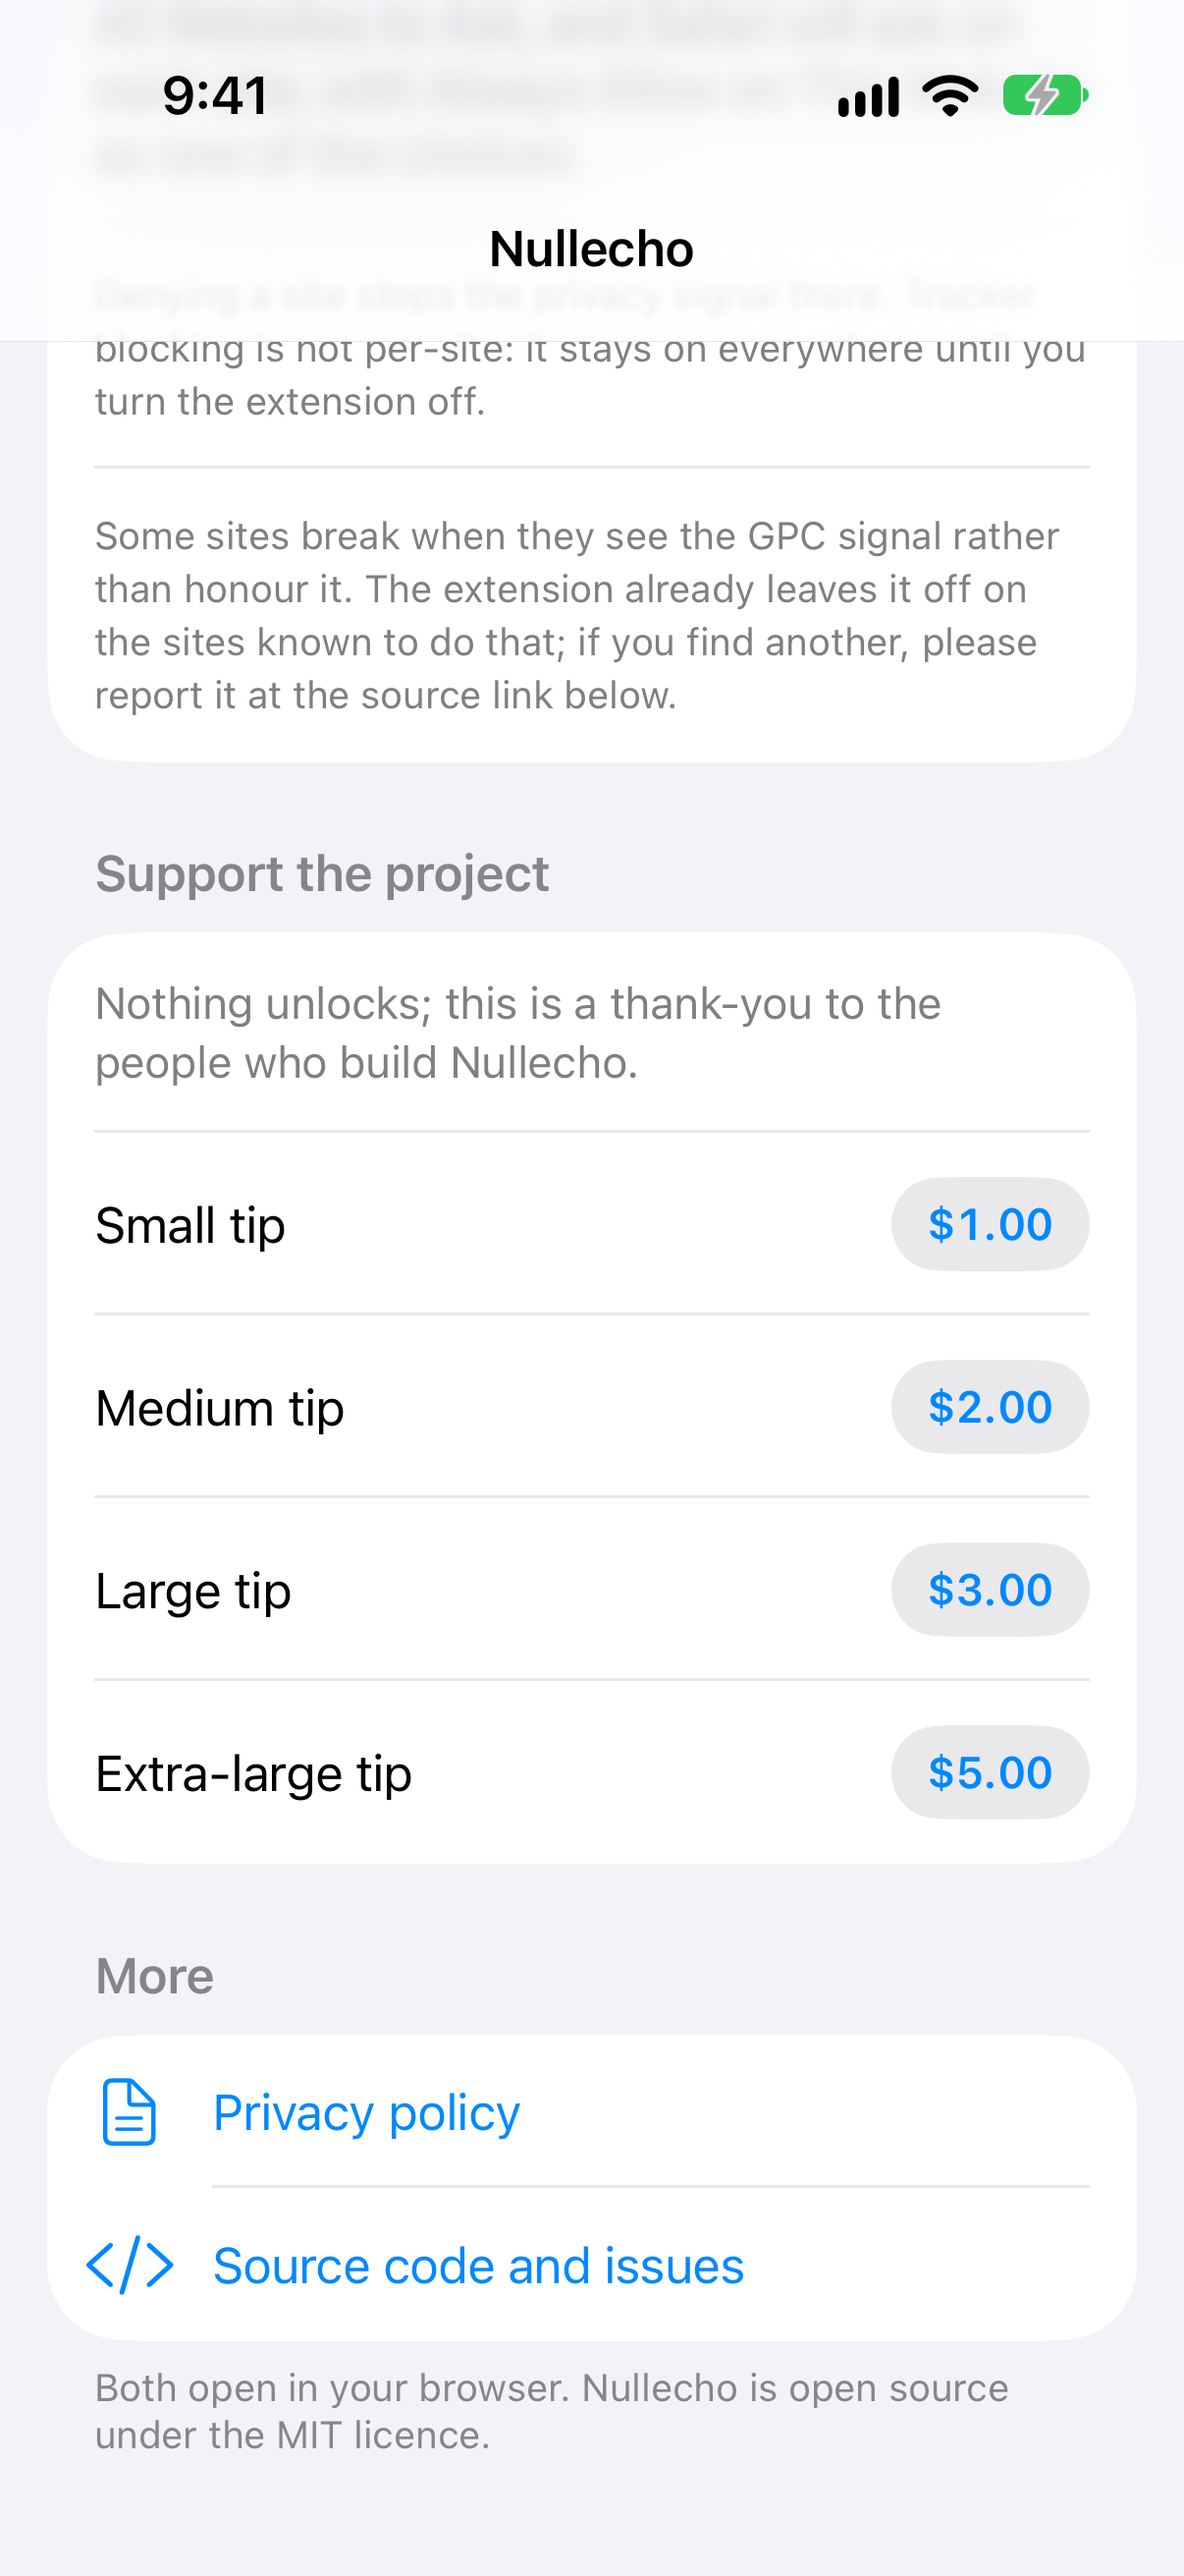
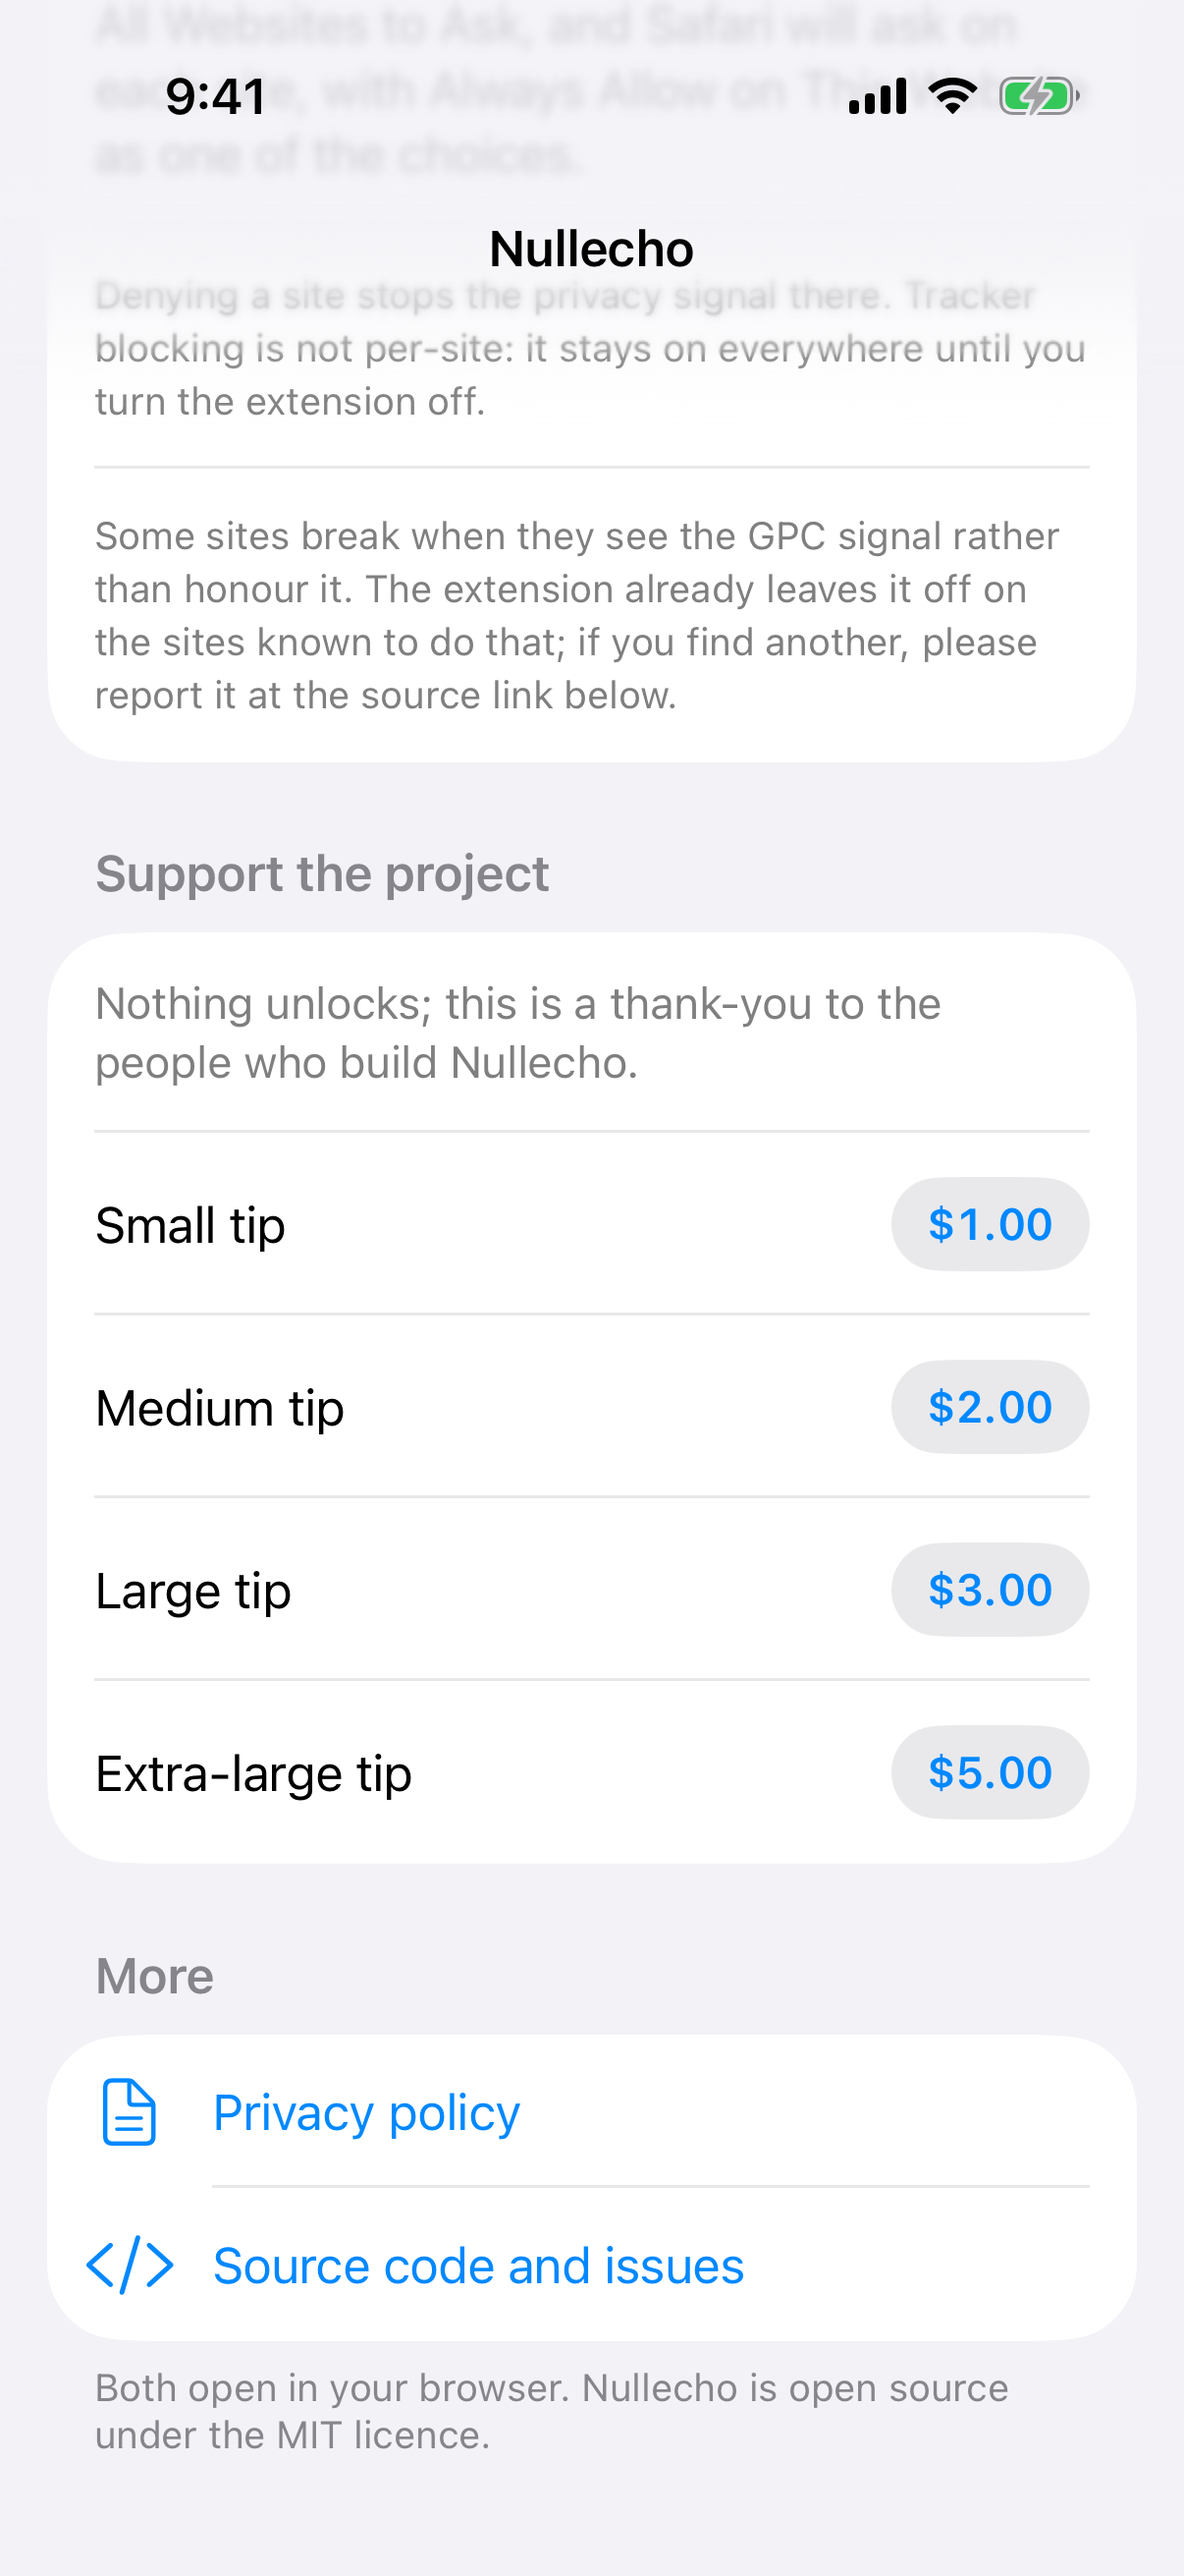
safari: store shots re-shot from the 0.9.3 build (iPhone 4, iPad 3); STORE-LISTING §7 dates
Same rig as 2026-10-15 (StoreScreenshotTests, light, 9:41, StoreKit test configuration planted first):
iPhone 17 Pro 1206×2622 ×4 and iPad Pro 13-inch 2064×2752 ×3, RGB, no alpha. The frames now read
"Extension version 0.9.3"; the rule count is unchanged at 186. The Mac set is untouched (still stale).

Changed region(s): [[0.7977, 0.0309, 0.9204, 0.0618], [0.7056, 0.0309, 0.767, 0.0618]]

diff --git a/safari/STORE-LISTING.md b/safari/STORE-LISTING.md
@@ -311,7 +311,7 @@ listed above, the answer for this app is None / No throughout.
 
 ## 7. Screenshots (`safari/store/`)
 
-All captured 2026-10-15 from the **0.9.2** build, real app, no frames or overlays (Review Guideline 2.3.3), no
+iPhone and iPad sets captured 2026-10-31 from the **0.9.3** build (main 8fcc6d8 app sources, 186 block rules), the Mac set still 2026-10-15; real app, no frames or overlays (Review Guideline 2.3.3), no
 alpha channel. iPhone and iPad shots are produced by a test in the repo —
 `safari/xcode/UITests/StoreScreenshotTests.swift` (run on its own with `-only-testing`, attachments exported with
 `xcrun xcresulttool export attachments`) — on iOS 27.0 (24A434) simulators in light appearance with the status
@@ -321,7 +321,7 @@ of `TipJarTests/testProductsLoadSortedByPriceWithDisplayPrices` on that simulato
 
 | File | Size | Device / class | Shows |
 |---|---|---|---|
-| `iphone-63-1-top.png` | 1206×2622 | iPhone 17 Pro = "iPhone with Dynamic Island (medium display)", the required iPhone class | Name, description, "Extension version 0.9.2", "Turn it on in Safari" steps |
+| `iphone-63-1-top.png` | 1206×2622 | iPhone 17 Pro = "iPhone with Dynamic Island (medium display)", the required iPhone class | Name, description, "Extension version 0.9.3", "Turn it on in Safari" steps |
 | `iphone-63-2-what-it-does.png` | 1206×2622 | same | "What it does": blocking, GPC, Safari's limits, "186 block rules on" (200 before PR #15's 14 exclusions), the collapsed "Acknowledgements" row |
 | `iphone-63-3-limits.png` | 1206×2622 | same | "What it does not do in Safari" and "Collects nothing" |
 | `iphone-63-4-support.png` | 1206×2622 | same | "If a site misbehaves" and "Support the project" with the four tips at $1.00 / $2.00 / $3.00 / $5.00 |
